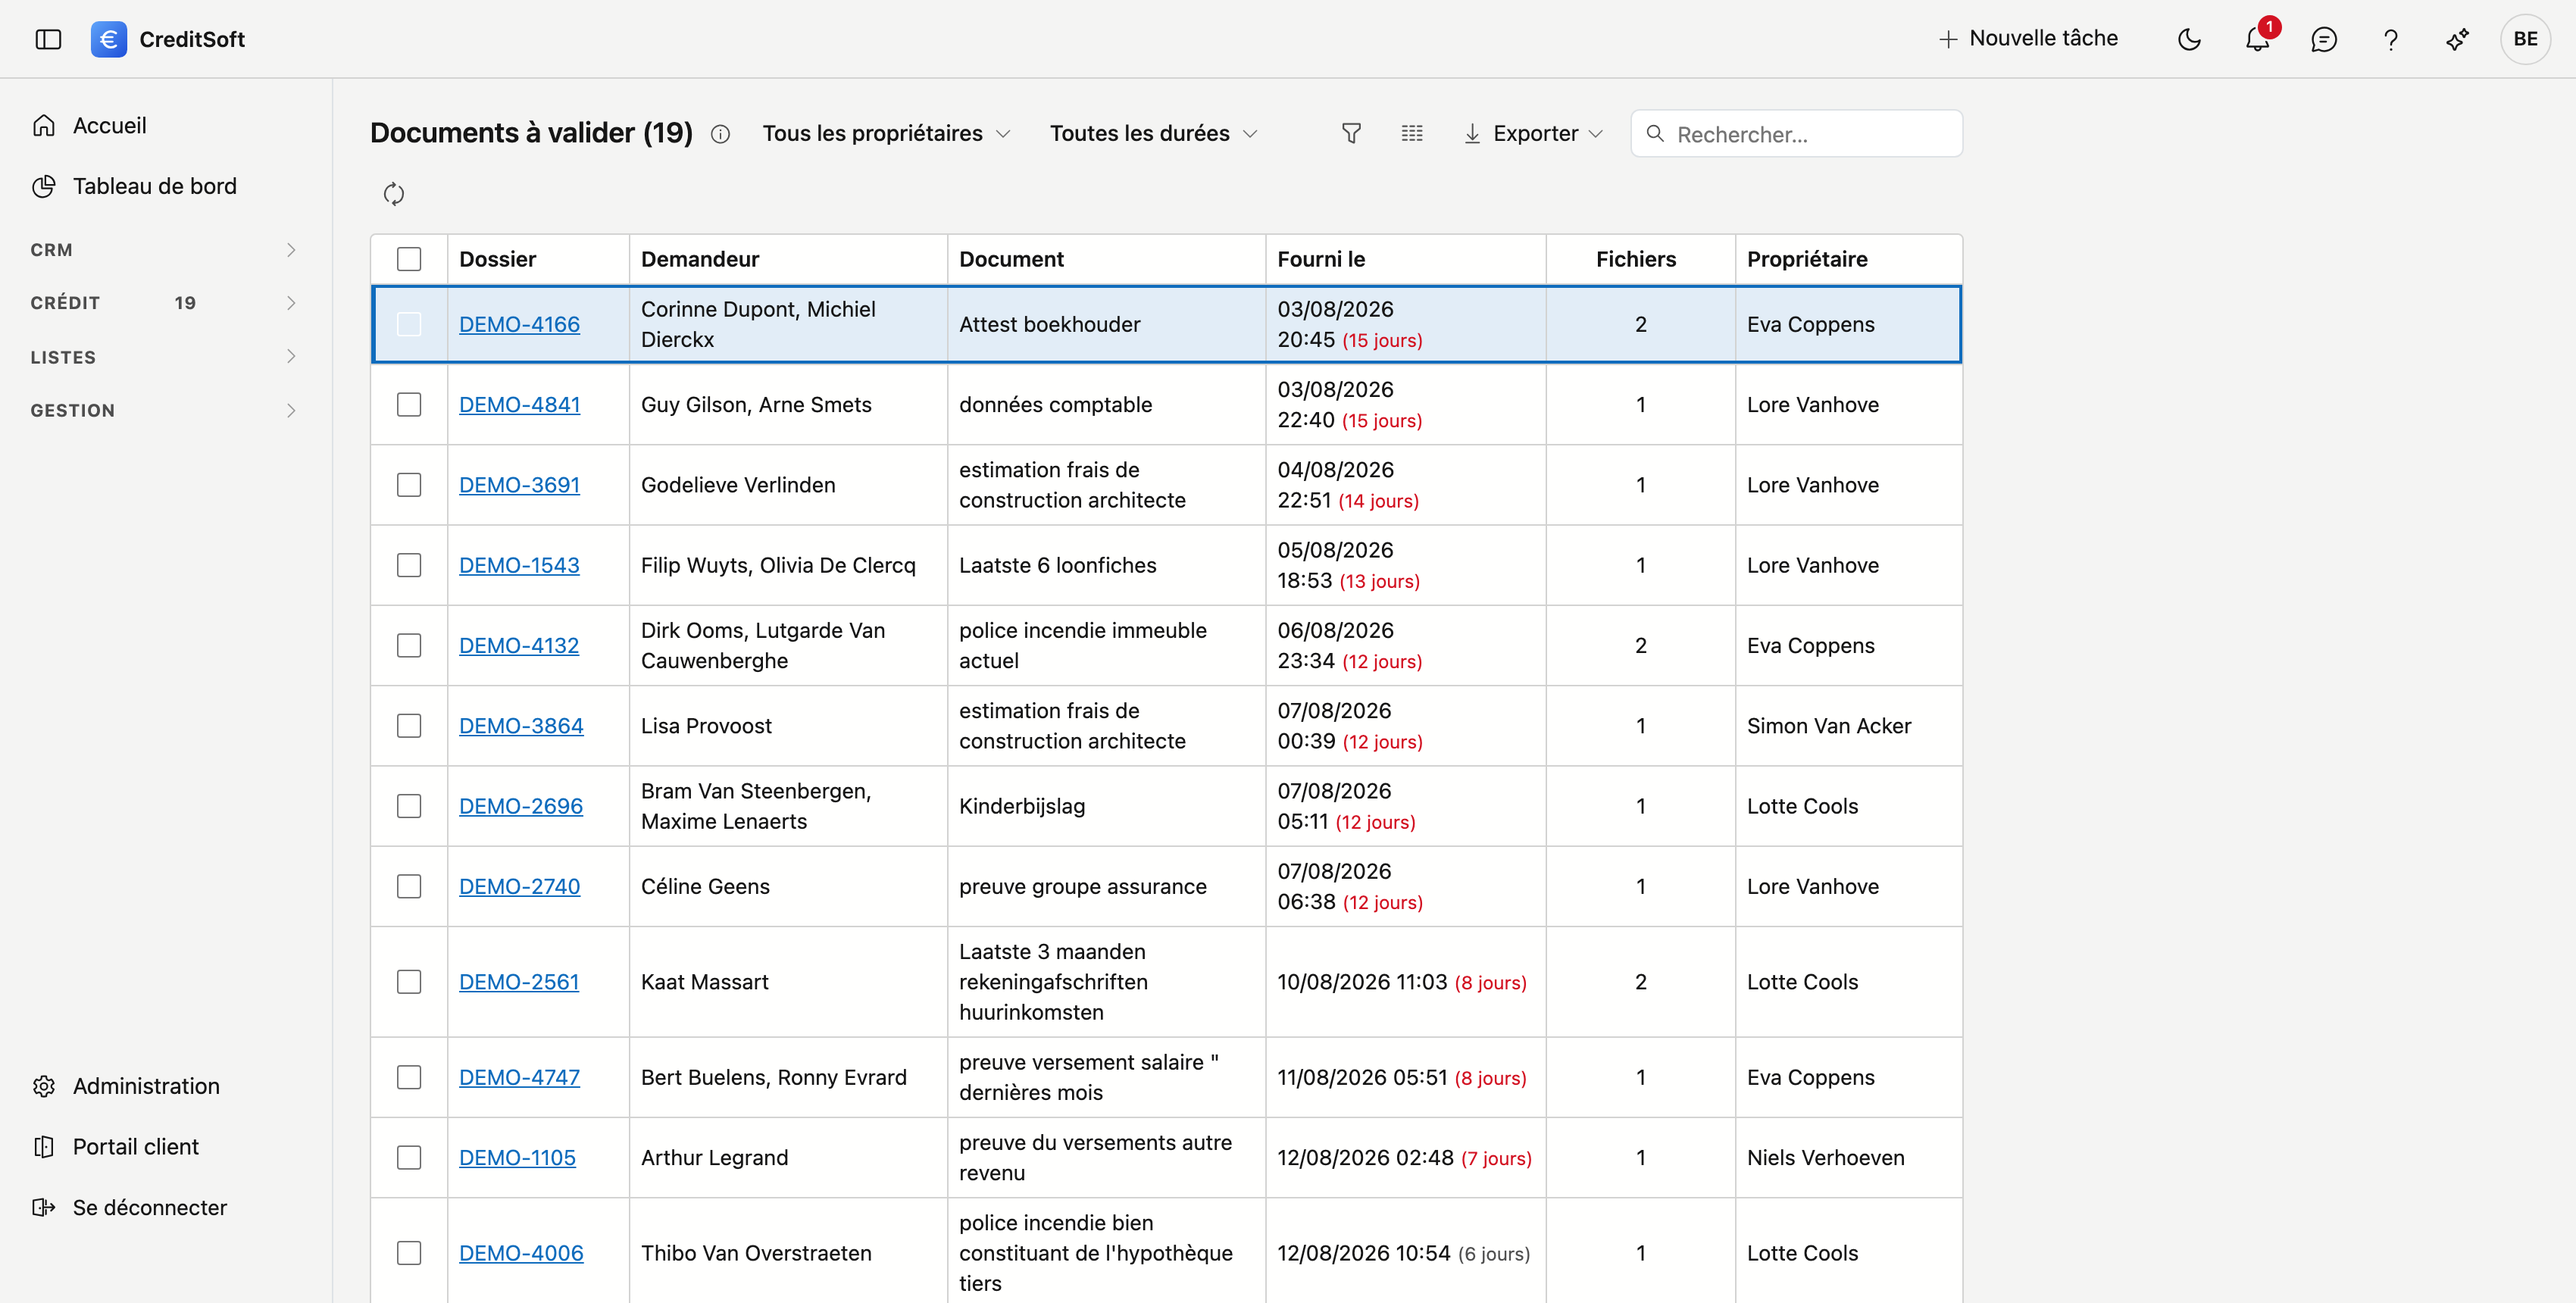
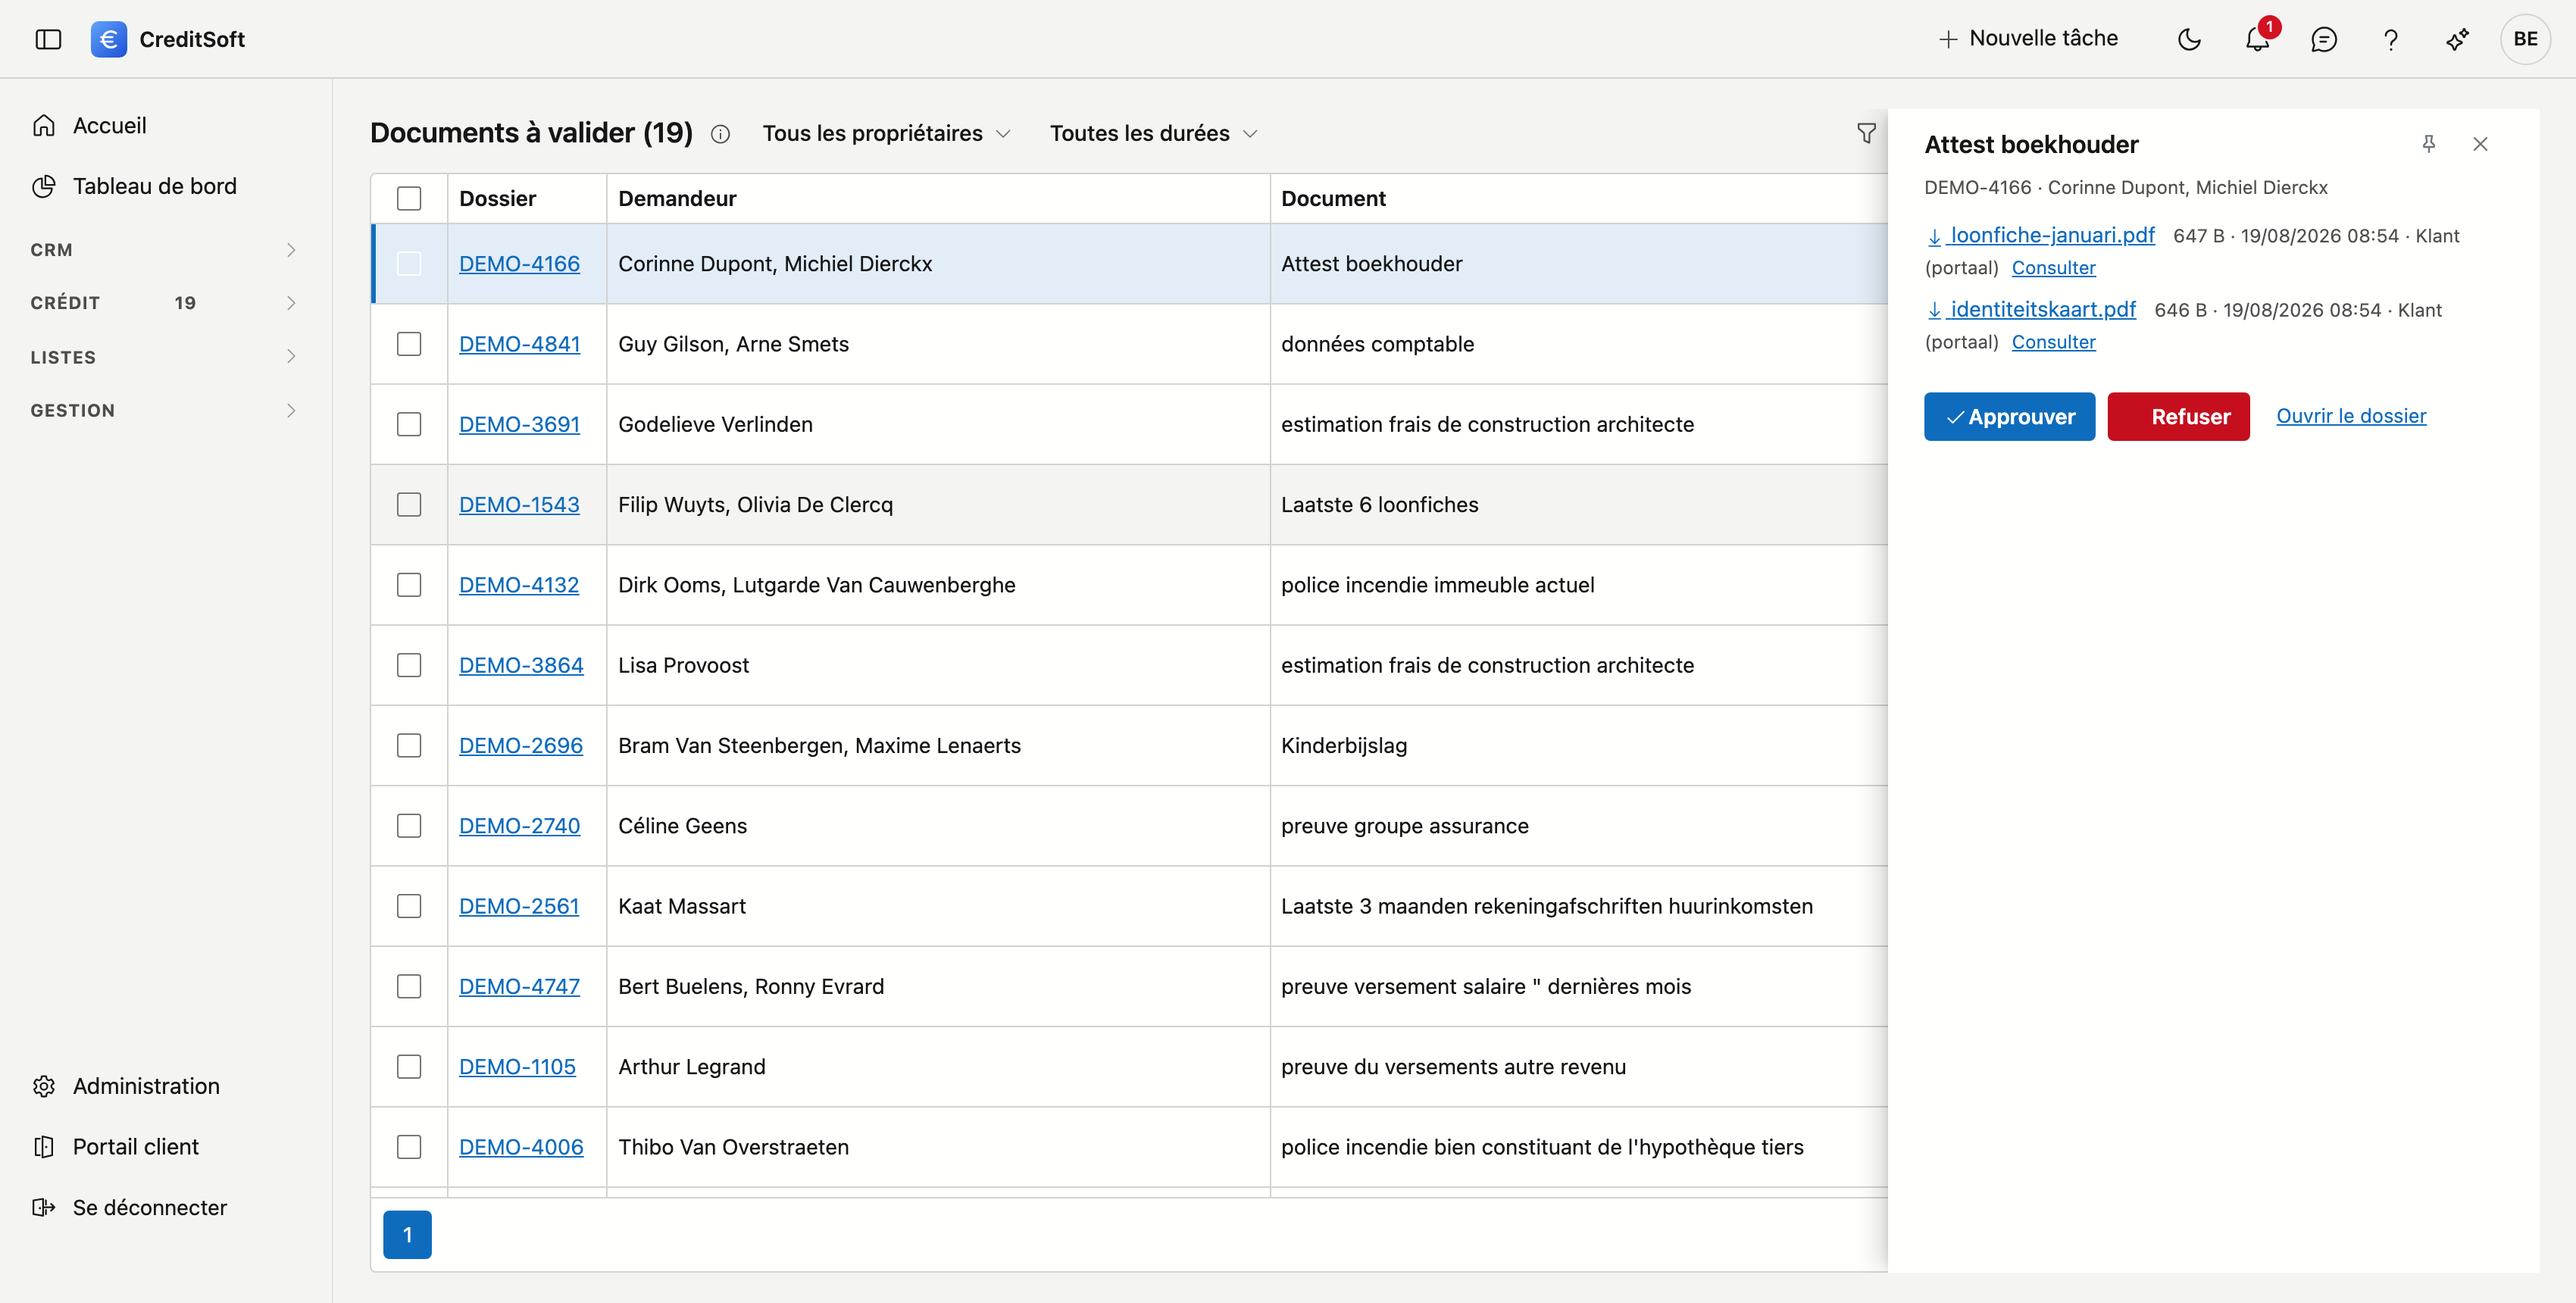
Beeld Te valideren documenten: lijst zonder geopend paneel
Het beoordeelpaneel zweeft over de lijst en dekte Aangeleverd, Bestanden en Eigenaar af — net de kolommen die
de tekst eronder uitlegt. Reden staat in het beeldmanifest.

diff --git a/BEELD-MANIFEST.md b/BEELD-MANIFEST.md
@@ -284,8 +284,10 @@ demo-medewerkers zijn bewust zonder wachtwoord aangemaakt en kunnen dus niet aan
 
 ## Kredieten → Te valideren documenten (`credit-management/document-validation.md`)
 
-- [x] `documenten-valideren.png` + `-fr` — de wachtrij met negentien stukken, de eerste rij geopend.
+- [x] `documenten-valideren.png` + `-fr` — de wachtrij met negentien stukken, **zonder** een rij te openen.
       Geplaatst 19/08/2026. ⚠ Vensterbreedte **1700**: op 1280 passen de zes kolommen niet naast elkaar.
+      ⚠ Bewust géén rij open: het beoordeelpaneel zweeft over de lijst en dekt dan Aangeleverd, Bestanden en
+      Eigenaar af — net de kolommen die de tekst eronder uitlegt.
       ⚠ Het beeld heeft gevulde demo-data nodig — de generator hangt sinds 19/08/2026 bijlagen aan de
       wachtende stukken, anders staat er in de kolom *Bestanden* overal een 0 en oogt het scherm leeg.
 
